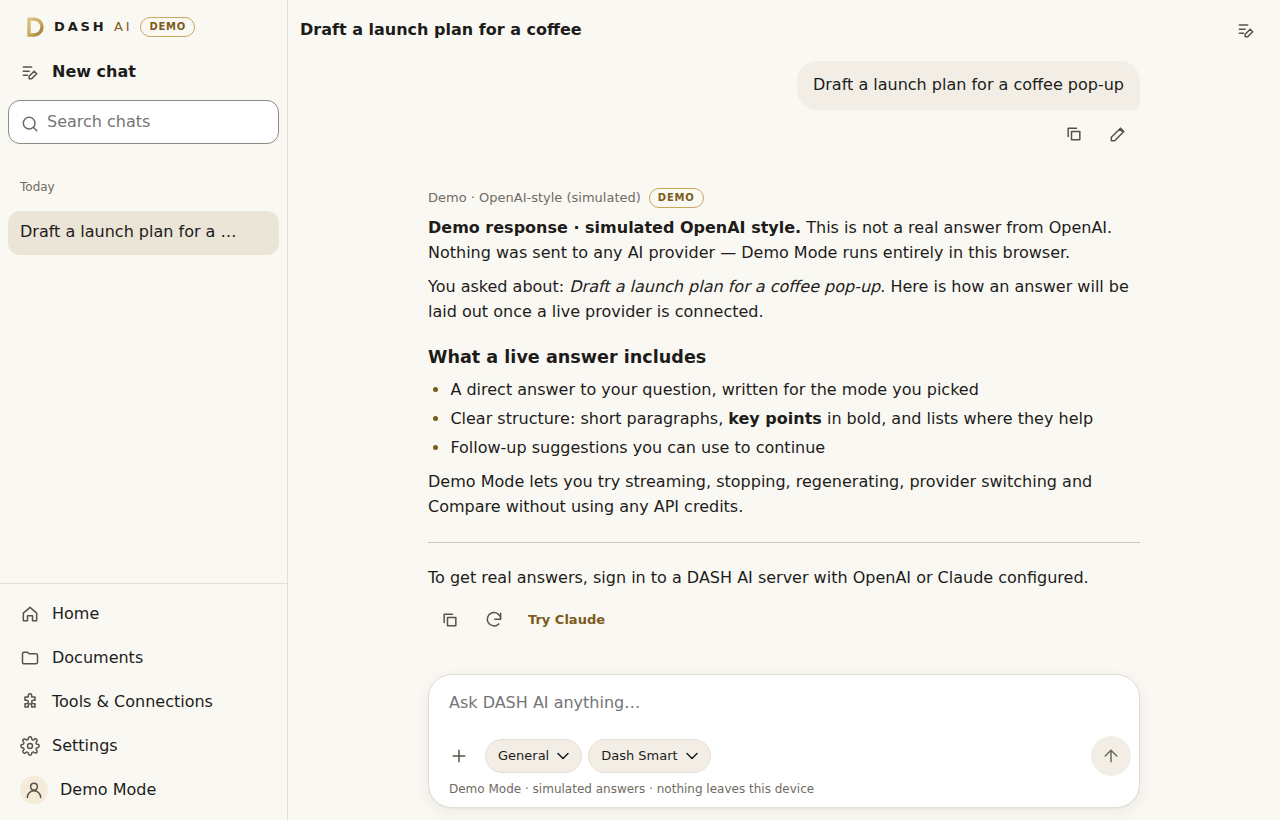
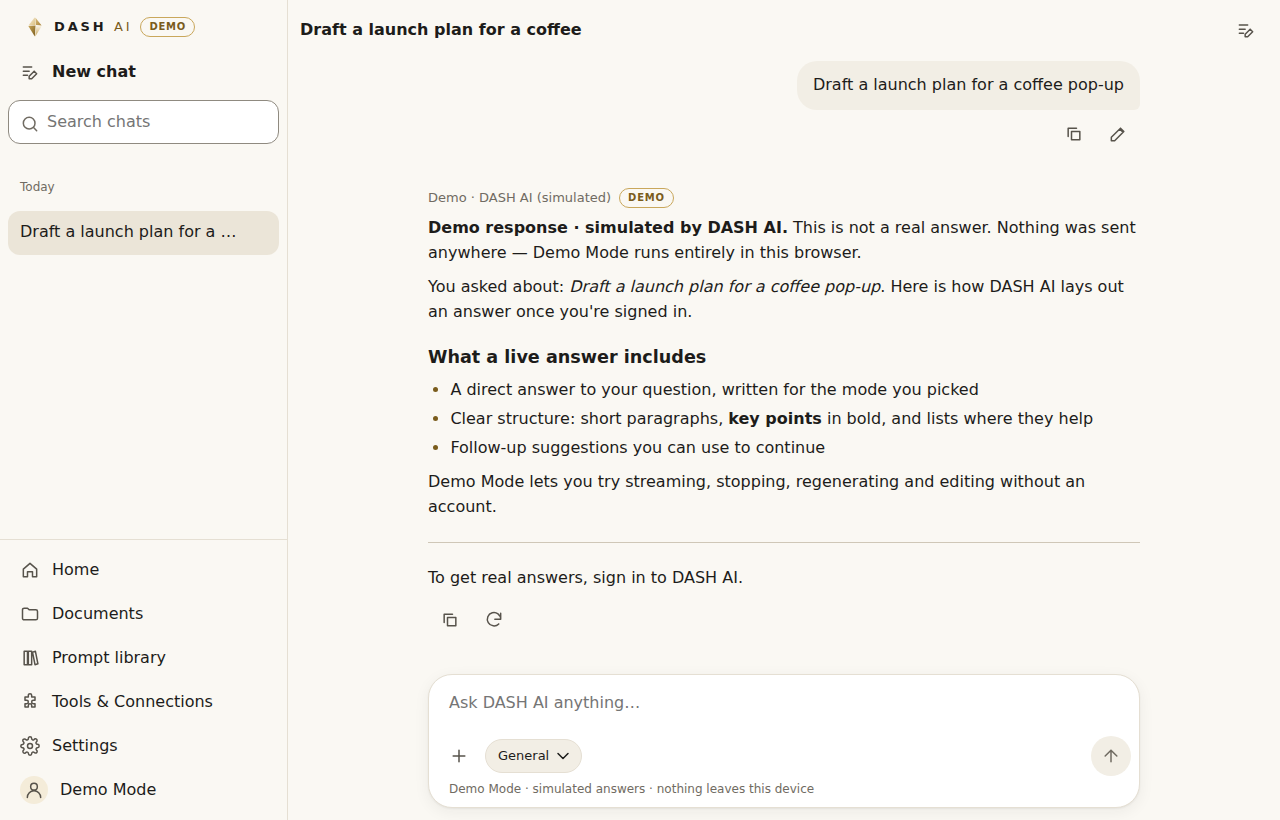
Screenshots without providers; E2E waits for the web delete before checking the tombstone
- Web and Android screenshots regenerated: cinematic splash (phone and
  desktop), chat labelled DASH AI, mode sheet, neutral recovery, dark
  Settings with the processor disclosure, account; the provider-sheet and
  provider-failure images are removed
- cross-client E2E: pull Android's tombstone only after the web app has
  removed the chat from its list (it does so once the server confirms the
  delete). The pull raced the delete request and failed intermittently
  (2 of 4 full local runs); 2 full runs pass after the fix

Claude-Session: https://claude.ai/code/session_01YbYpnDZS7qDUGX3mmU7J8v

diff --git a/apps/web/e2e/cross-client.spec.ts b/apps/web/e2e/cross-client.spec.ts
@@ -106,6 +106,9 @@ test("a chat written on Android (offline, then synced) opens on the web, and del
   await page.getByRole("button", { name: /Options for/ }).first().click();
   await page.getByRole("menuitem", { name: "Delete" }).click();
   await page.getByTestId("confirm").click();
+  // The delete has reached the server once the web app has removed the chat from its list.
+  await openMenuIfNeeded(page);
+  await expect(page.getByTestId("history-item").filter({ hasText: "Written on the phone" })).toHaveCount(0);
   const tombstone = (await androidPull(page.request, auth)).changes.find((c) => c.conversation.id === conversationId)!;
   expect(tombstone).toMatchObject({ deleted: true, messages: [], toolActivity: [] });
 });
